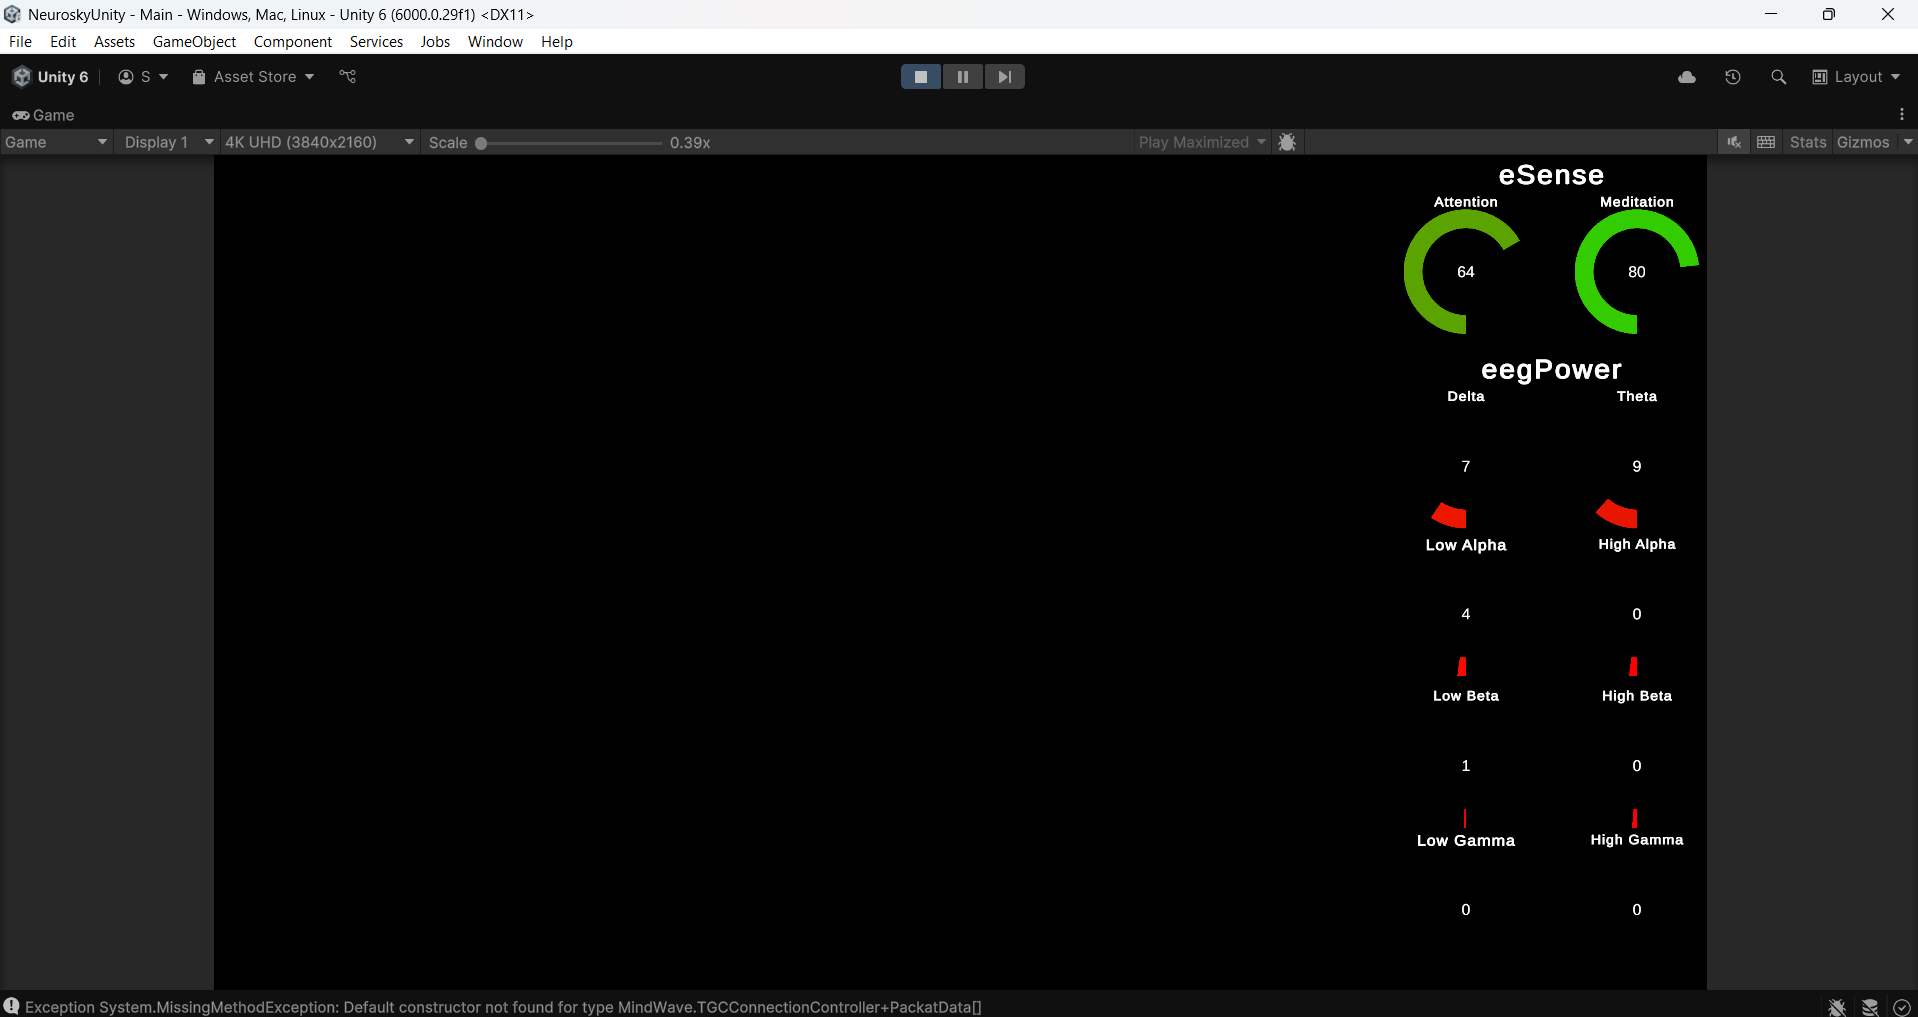
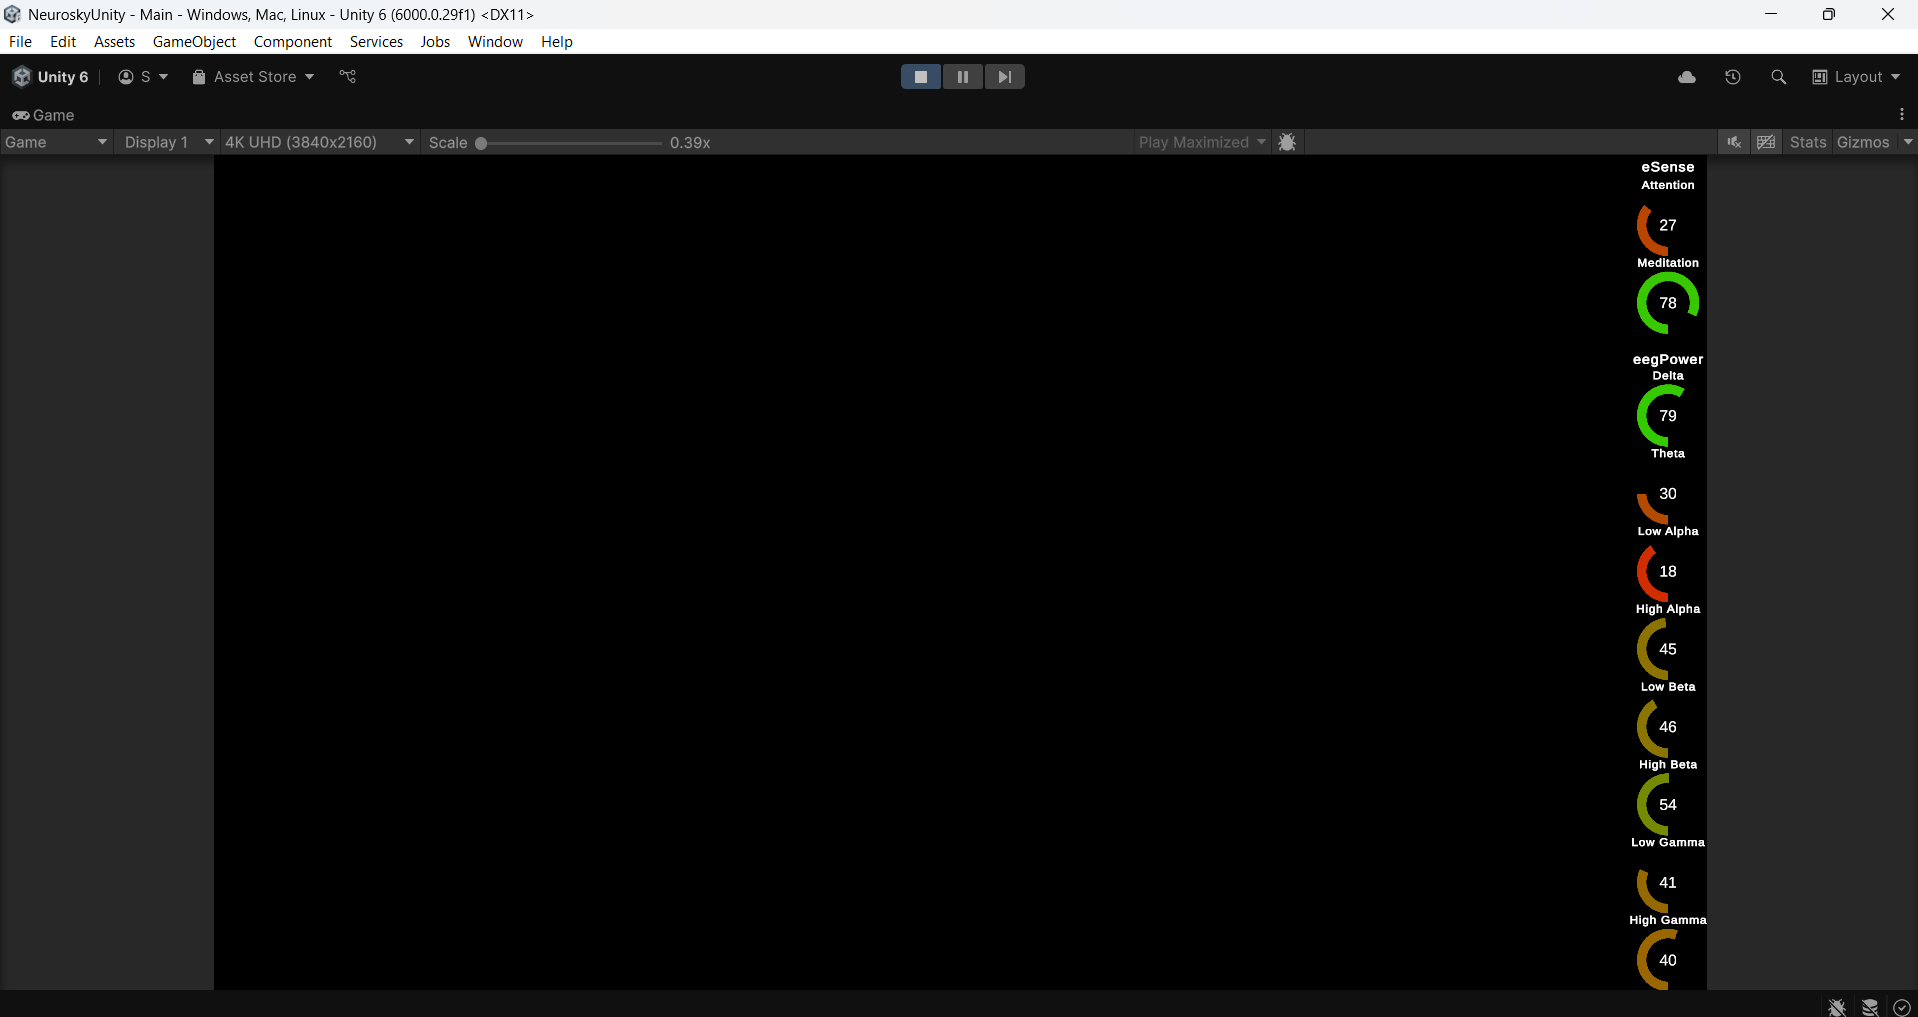
Updated the UI and wave calcualtion logic

diff --git a/Assets/Scripts/NeuroskyGUIManager.cs b/Assets/Scripts/NeuroskyGUIManager.cs
@@ -24,8 +24,15 @@ namespace MindWave
         private float lowGammaValue = -1;
         private float highGammaValue = -1;
 
-        private float minValue = 1000f;
-        private float maxValue = 100000f;
+        private float minValue = 0f;
+        private float deltaMaxValue = 100f;
+        private float thetaMaxValue = 100f;
+        private float lowAlphaMaxValue = 100f;
+        private float highAlphaMaxValue = 100f;
+        private float lowBetaMaxValue = 100f;
+        private float highBetaMaxValue = 100f;
+        private float lowGammaMaxValue = 100f;
+        private float highGammaMaxValue = 100f;
 
         // Start is called once before the first execution of Update after the MonoBehaviour is created
         void Start()
@@ -63,47 +70,55 @@ namespace MindWave
 
         private void OnDeltaReceived(float value)
         {
-            deltaValue = Normalize(value,minValue,maxValue);
+            if(value> deltaMaxValue) deltaMaxValue = value;
+            deltaValue = Normalize(value,minValue, deltaMaxValue);
             UIStatusManager.Instance.UpdatePlayerStatus(2, (int)deltaValue);
         }
 
         private void OnThetaReceived(float value)
         {
-            thetaValue = Normalize(value, minValue, maxValue);
+            if (value > thetaMaxValue) thetaMaxValue = value;
+            thetaValue = Normalize(value, minValue, thetaMaxValue);
             UIStatusManager.Instance.UpdatePlayerStatus(3, (int)thetaValue);
         }
 
         private void OnLowAlphaReceived(float value)
         {
-            lowAlphaValue = Normalize(value, minValue, maxValue);
+            if (value > lowAlphaMaxValue) lowAlphaMaxValue = value;
+            lowAlphaValue = Normalize(value, minValue, lowAlphaMaxValue);
             UIStatusManager.Instance.UpdatePlayerStatus(4, (int)lowAlphaValue);
         }
 
         private void OnHighAlphaReceived(float value)
         {
-            highAlphaValue = Normalize(value, minValue, maxValue);
+            if (value > highAlphaMaxValue) highAlphaMaxValue = value;
+            highAlphaValue = Normalize(value, minValue, highAlphaMaxValue);
             UIStatusManager.Instance.UpdatePlayerStatus(5, (int)highAlphaValue);
         }
 
         private void OnLowBetaReceived(float value)
         {
-            lowBetaValue = Normalize(value, minValue, maxValue);
+            if (value > lowBetaMaxValue) lowBetaMaxValue = value;
+            lowBetaValue = Normalize(value, minValue, lowBetaMaxValue);
             UIStatusManager.Instance.UpdatePlayerStatus(6, (int)lowBetaValue);
         }
 
         private void OnHighBetaReceived(float value)
         {
-            highBetaValue = Normalize(value, minValue, maxValue);
+            if (value > highBetaMaxValue) highBetaMaxValue = value;
+            highBetaValue = Normalize(value, minValue, highBetaMaxValue);
             UIStatusManager.Instance.UpdatePlayerStatus(7, (int)highBetaValue);
         }
         private void OnLowGammaReceived(float value)
         {
-            lowGammaValue = Normalize(value, minValue, maxValue);
+            if (value > lowGammaMaxValue) lowGammaMaxValue = value;
+            lowGammaValue = Normalize(value, minValue, lowGammaMaxValue);
             UIStatusManager.Instance.UpdatePlayerStatus(8, (int)lowGammaValue);
         }
         private void OnHighGammaReceived(float value)
         {
-            highGammaValue = Normalize(value, minValue, maxValue);
+            if (value > highGammaMaxValue) highGammaMaxValue = value;
+            highGammaValue = Normalize(value, minValue, highGammaMaxValue);
             UIStatusManager.Instance.UpdatePlayerStatus(9, (int)highGammaValue);
         }
 
